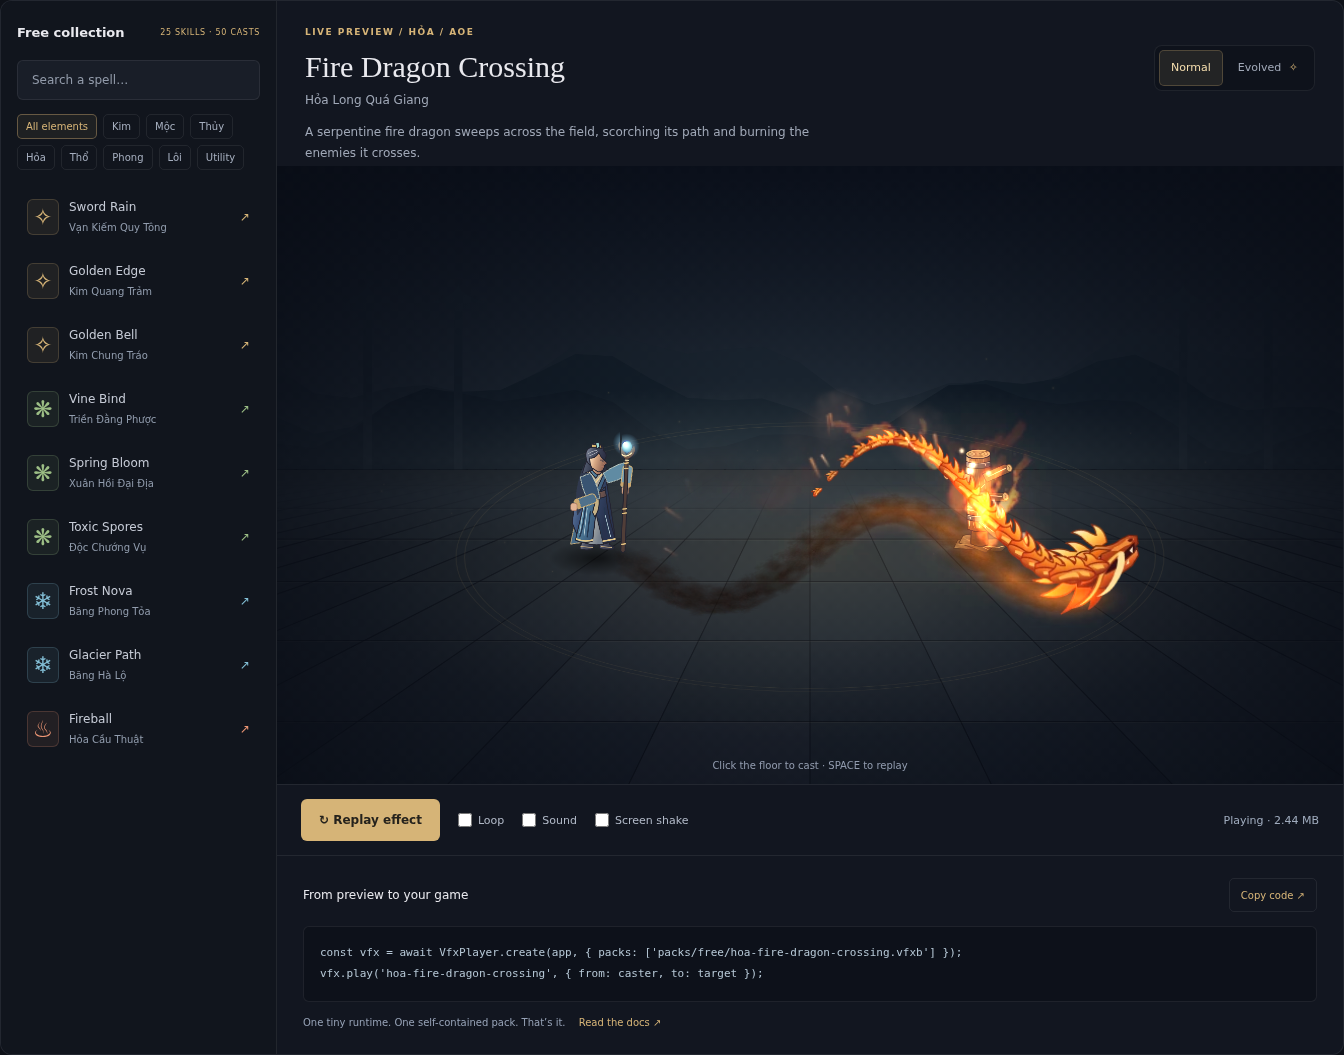
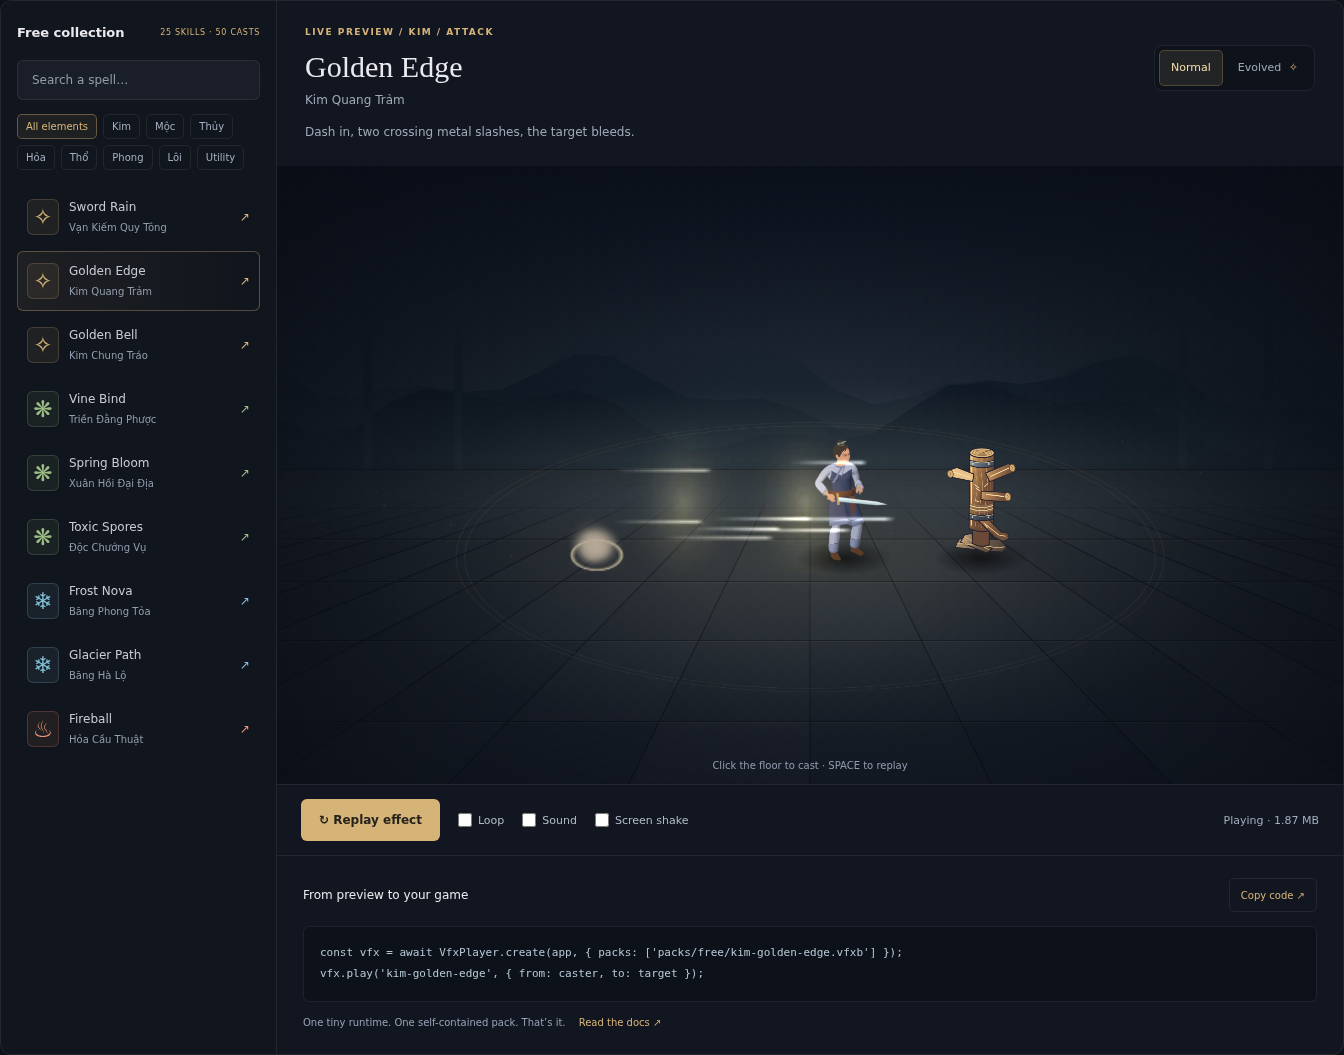
Make the swordsman sheet the showcase caster

diff --git a/showcase/src/main.ts b/showcase/src/main.ts
@@ -1,6 +1,7 @@
 // Copyright (c) 2026 lenhonbp <lenhonbp@gmail.com> — https://github.com/lenhonbp/pixijs-skill-vfx
 // SPDX-License-Identifier: MIT
-import { Application, Container, Texture } from 'pixi.js';
+import { Application, Assets, Container, Texture } from 'pixi.js';
+import type { Spritesheet } from 'pixi.js';
 import { VfxPlayer } from '../../runtime/src/index';
 import type { Playback, CueEvent } from '../../runtime/src/index';
 import './style.css';
@@ -148,7 +149,7 @@ document.querySelector<HTMLDivElement>('#app')!.innerHTML = `
 <div class="workspace"><div class="arena-header"><div><p class="eyebrow" id="category">LIVE PREVIEW / ATTACK</p><h2 id="selected-name">Loading collection…</h2><p id="selected-vi"></p></div><div id="tiers" class="tier-switch" role="group" aria-label="Effect tier"><button data-tier="normal" aria-pressed="true">Normal</button><button data-tier="evolved" aria-pressed="false">Evolved <span>✧</span></button></div><button id="browse" class="browse">Browse skills ↓</button></div><p id="description" class="effect-description"></p><div id="stage" aria-label="Effect preview arena"><div class="arena-label left">CASTER</div><div class="arena-label right">TARGET</div><div class="arena-tip">Click the floor to cast · SPACE to replay</div><span class="axis">2.5D / ISOMETRIC</span></div><div class="controls"><button id="replay" class="primary">↻ Replay effect</button><label><input id="loop" type="checkbox"> Loop</label><label><input id="sound" type="checkbox"> Sound</label><label><input id="shake" type="checkbox" checked> Screen shake</label><span id="status" role="status" aria-live="polite">Loading…</span></div>
 <div class="integration"><div class="section-heading"><h3>From preview to your game</h3><button id="copy">Copy code ↗</button></div><pre><code id="snippet"></code></pre><p>One tiny runtime. One self-contained pack. That’s it. <a href="https://github.com/lenhonbp/pixijs-skill-vfx/blob/main/runtime/README.md">Read the docs ↗</a></p></div></div></section>
 <section id="premium"><div class="premium-heading"><div><p class="eyebrow">THE NEXT CHAPTER</p><h2>More worlds. More wonder.</h2></div><p>Handcrafted collections for your next adventure.<br><span>Premium art. The same free runtime.</span></p></div><div class="premium-grid"><article style="--accent:#d6b477"><span class="pack-symbol">劍</span><p class="eyebrow">01 / MARTIAL LEGENDS</p><h3>Kiếm Hiệp</h3><p>Sword auras, flying blades and the spirit of a wandering hero.</p><div><a href="#gumroad-link-tbd">Gumroad ↗</a><a href="#itch-link-tbd">itch.io ↗</a><span>COMING SOON</span></div></article><article style="--accent:#7dbaa9"><span class="pack-symbol">五</span><p class="eyebrow">02 / FIVE ELEMENTS</p><h3>Ngũ Hành</h3><p>Metal, wood, water, fire and earth. Five forces in perfect motion.</p><div><a href="#gumroad-link-tbd">Gumroad ↗</a><a href="#itch-link-tbd">itch.io ↗</a><span>COMING SOON</span></div></article><article style="--accent:#b69ed4"><span class="pack-symbol">冥</span><p class="eyebrow">03 / FINAL ENCOUNTERS</p><h3>Ultimate Boss</h3><p>Arena-shaking ultimates for battles players will remember.</p><div><a href="#gumroad-link-tbd">Gumroad ↗</a><a href="#itch-link-tbd">itch.io ↗</a><span>COMING SOON</span></div></article></div></section>
-<footer><span>© 2026 lenhonbp &lt;lenhonbp@gmail.com&gt; · <a href="https://opensource.org/license/mit">MIT license</a></span><span>Runtime & free collection · MIT</span></footer></main>`;
+<footer><span>© 2026 lenhonbp &lt;lenhonbp@gmail.com&gt; · <a href="https://opensource.org/license/mit">MIT license</a></span><span>Character artwork (c) 2026 lenhonbp; excluded from the MIT licence.</span></footer></main>`;
 const el = <T extends HTMLElement>(id: string) => document.getElementById(id) as T;
 const app = new Application();
 await app.init({ width: 1000, height: 580, backgroundColor: 0x121620, antialias: true, resolution: Math.min(devicePixelRatio, 2) * el('stage').clientWidth / 1000, autoDensity: true });
@@ -162,6 +163,10 @@ resize.observe(el('stage'));
 const world = new Container(); app.stage.addChild(world);
 const from = { x: 300, y: 365 }, to = { x: 660, y: 365 };
 const scene = createStage(world, from, to, { head: heroTexture('head'), torso: heroTexture('torso'), legs: heroTexture('legs'), staff: heroTexture('staff'), dummy: dummyTexture() });
+try {
+  const sheet = await Assets.load<Spritesheet>(`${base}actors/ngu-hanh-sword/son-ha-kiem-khi-se.json`);
+  scene.setCaster(sheet.animations['son-ha-kiem-khi-se']);
+} catch (error) { console.warn('Character sheet unavailable; using drawn caster.', error); }
 const vfx = await VfxPlayer.create(app, { shake: { target: world }, hitstop: true });
 const response = await fetch(`${base}packs/free/index.json`); if (!response.ok) throw Error('Collection index unavailable');
 const packs: Entry[] = await response.json();
@@ -236,7 +241,10 @@ async function cast() {
     if (!await loadSelected(id) || token !== request) return;
     loading(false);
     const movement = ['kim-golden-edge', 'phong-whirlwind', 'phong-tailwind'].includes(selected.id);
-    scene.prepare(movement ? 'movement' : selected.category === 'attack' || selected.category === 'channel' ? 'projectile' : selected.category);
+    const manifest = vfx.getManifest(id)!;
+    const release = manifest.cues.find(c => c.type === 'sound' && c.id === 'release')?.t
+      ?? manifest.cues.find(c => c.type === 'sound' && ['buff', 'debuff'].includes(c.id ?? ''))?.t ?? 220;
+    scene.prepare(movement ? 'movement' : selected.category === 'attack' || selected.category === 'channel' ? 'projectile' : selected.category, { release, duration: manifest.durationMs });
     current = vfx.play(id, { from, to, parent: world, loop: el<HTMLInputElement>('loop').checked });
     el('status').textContent = 'Playing · ' + sizeLabel();
     await current.finished;
@@ -254,7 +262,7 @@ vfx.on('cue', (cue: CueEvent) => {
   oscillator.frequency.exponentialRampToValueAtTime(55, now + 0.18); gain.gain.setValueAtTime(0.04, now); gain.gain.exponentialRampToValueAtTime(0.001, now + 0.22);
   oscillator.connect(gain).connect(audio.destination); oscillator.start(); oscillator.stop(now + 0.23); oscillator.onended = () => { oscillator.disconnect(); gain.disconnect(); };
 });
-app.ticker.add((ticker: any) => scene.animate(ticker.deltaMS, current?.pose('caster'), current?.pose('target')));
+app.ticker.add((ticker: any) => scene.animate(ticker.deltaMS, current?.pose('caster'), current?.pose('target'), current?.elapsedMs));
 el('tiers').querySelectorAll<HTMLButtonElement>('button').forEach(button => { button.onclick = () => {
   const next = button.dataset.tier === 'evolved';
   if (evolved === next || (next && !selected.evolved)) return;

diff --git a/showcase/src/stage.ts b/showcase/src/stage.ts
@@ -87,7 +87,8 @@ export function createStage(world: Container, from: { x: number; y: number }, to
   figure(art.legs, legs); figure(art.torso, body); figure(art.head, head);
   head.pivot.set(0, -87); head.position.set(0, -87);
   body.pivot.set(0, -55); body.position.set(0, -55);
-  caster.addChild(legs, body); body.addChild(head);
+  const rig = new Container(); caster.addChild(rig);
+  rig.addChild(legs, body); body.addChild(head);
   function arm(x: number, back: boolean) {
     const upper = new Container(), forearm = new Container(), hand = new Container();
     upper.position.set(x, -72); forearm.position.y = 21; hand.position.y = 20;
@@ -127,6 +128,25 @@ export function createStage(world: Container, from: { x: number; y: number }, to
   (Object.keys(velocity) as (keyof typeof idle)[]).forEach(k => { velocity[k] = 0; });
   let clock = 0, castAge = Infinity, releaseAge = Infinity, hitAge = Infinity, color = 0x91c9da, category = 'projectile';
   let casterLift = 0, targetLift = 0;
+  let swordsman: Sprite | undefined, textures: Texture[] = [], clipFrame = 0;
+  let clipRelease = 270, clipEnd = 680;
+  function setCaster(frames: Texture[]) {
+    const anchor = frames[0]?.defaultAnchor;
+    if (frames.length !== 24 || !anchor) throw Error('Invalid swordsman clip');
+    textures = frames;
+    textures[0].source.scaleMode = 'linear';
+    swordsman = new Sprite(textures[0]);
+    swordsman.anchor.copyFrom(anchor);
+    swordsman.scale.set(120 / textures[0].orig.height);
+    caster.addChild(swordsman); rig.visible = false;
+  }
+  function sampleCast(elapsed: number) {
+    const local = elapsed <= clipRelease && clipRelease > 0
+      ? elapsed / clipRelease * 270
+      : 270 + (elapsed - clipRelease) / Math.max(1, clipEnd - clipRelease) * 410;
+    clipFrame = !Number.isFinite(elapsed) || elapsed > clipEnd ? 0 : Math.round(Math.min(1, Math.max(0, local / 680)) * 23);
+    if (swordsman) swordsman.texture = textures[clipFrame];
+  }
   function pointArm(a: ReturnType<typeof arm>, x: number, y: number) {
     const dx = x - a.upper.x, dy = y - a.upper.y, d = Math.max(1, Math.min(40.9, Math.hypot(dx, dy)));
     const shoulder = Math.atan2(dy, dx) - Math.acos(Math.max(-1, Math.min(1, (21 * 21 + d * d - 20 * 20) / (42 * d))));
@@ -143,7 +163,7 @@ export function createStage(world: Container, from: { x: number; y: number }, to
     shadow.alpha = node.alpha * 0.85 / (1 + lift / 100);
     return lift;
   }
-  function animate(ms: number, casterPose?: ActorPose | null, targetPose?: ActorPose | null) {
+  function animate(ms: number, casterPose?: ActorPose | null, targetPose?: ActorPose | null, elapsedMs?: number) {
     const dt = Math.min(ms, 50); clock += dt; castAge += dt; releaseAge += dt; hitAge += dt;
     const t = clock / 1000, windup = releaseAge === Infinity && Number.isFinite(castAge) ? 1 - Math.pow(1 - Math.min(1, castAge / 220), 3) : 0;
     const recoil = Math.exp(-releaseAge / 330), hit = Math.exp(-hitAge / 210), spring = Number.isFinite(hitAge) ? Math.sin(hitAge / 67) * hit : 0;
@@ -158,7 +178,8 @@ export function createStage(world: Container, from: { x: number; y: number }, to
     }
     casterLift = actor(caster, casterShadow, from, casterPose, dt);
     targetLift = actor(dummy, dummyShadow, to, targetPose, dt);
-    caster.y -= Math.sin(t * 2.1) * 1.1;
+    if (!swordsman) caster.y -= Math.sin(t * 2.1) * 1.1;
+    sampleCast(elapsedMs ?? castAge);
     legs.scale.y = 1 - pose.crouch / 140; body.y = -55 + pose.crouch; body.rotation = pose.lean;
     head.rotation = -pose.lean * 0.35 + Math.sin(t * 1.4) * 0.008;
     robe.rotation = Math.sin(t * 1.8) * 0.023; hair.rotation = Math.sin(t * 1.5 + 1) * 0.035;
@@ -187,6 +208,11 @@ export function createStage(world: Container, from: { x: number; y: number }, to
     caster.alpha = dummy.alpha = 1; animate(0);
   }
   animate(0);
-  return { animate, cue, reset, prepare(value: string) { category = value; }, caster, dummy, casterShadow, dummyShadow, body, head, legs, frontArm, backArm, staff, orb, floorFlash,
-    get state() { return { clock, castAge, releaseAge, hitAge, category, casterLift, targetLift }; } };
+  return { animate, cue, reset, setCaster, prepare(value: string, timing?: { release: number; duration: number }) {
+    category = value;
+    clipRelease = timing?.release ?? 270;
+    clipEnd = Math.min(timing?.duration ?? 680, clipRelease + 410);
+  }, caster, dummy, casterShadow, dummyShadow, body, head, legs, frontArm, backArm, staff, orb, floorFlash, rig,
+    get swordsman() { return swordsman; },
+    get state() { return { clock, castAge, releaseAge, hitAge, category, casterLift, targetLift, clipFrame, clipRelease, clipEnd }; } };
 }

diff --git a/runtime/src/index.ts b/runtime/src/index.ts
@@ -14,7 +14,7 @@ export interface PlayerOptions {
   packs?: string[]; loadKey?: string; shake?: { target: Container }; hitstop?: boolean;
 }
 export interface ActorPose { x: number; y: number; lift: number; visible: boolean; facing: number }
-export interface Playback { stop(): void; finished: Promise<void>; pose(name: ActorName): ActorPose | null }
+export interface Playback { stop(): void; finished: Promise<void>; readonly elapsedMs: number; pose(name: ActorName): ActorPose | null }
 export type CueEvent = Cue & { packId: string; handle: Playback };
 interface Pack { manifest: Manifest; sheets: Texture[]; frames: (Texture | null)[][] }
 interface Active {
@@ -108,6 +108,7 @@ export class VfxPlayer {
     let resolve!: () => void;
     const finished = new Promise<void>(done => { resolve = done; });
     const resets = new Set<ActorName>();
+    const player = this;
     const pose = (name: ActorName): ActorPose | null => {
       const track = pack.manifest.actors?.[name];
       if (!track) return null;
@@ -124,13 +125,17 @@ export class VfxPlayer {
       const lerp = (k: number) => f[k] + (next[k] - f[k]) * t;
       return { x: lerp(0) * direction * fit, y: lerp(1), lift: lerp(2), visible: !!(f[3] & 1), facing: (f[3] & 2 ? -1 : 1) * direction };
     };
-    const a: Active = { pack, options, root, sprites, time: 0, cue: 0, freeze: 0, resolve, handle: { finished, pose, stop: () => this.finish(a) } };
+    const a: Active = { pack, options, root, sprites, time: 0, cue: 0, freeze: 0, resolve, handle: { finished, pose, get elapsedMs() { return player.active.has(a) ? a.time : 0; }, stop: () => this.finish(a) } };
     this.active.add(a); this.draw(a); this.emitCues(a);
     return a.handle;
   }
   on(type: 'cue', listener: (event: CueEvent) => void): this { if (type === 'cue') this.listeners.add(listener); return this; }
   off(type: 'cue', listener: (event: CueEvent) => void): this { if (type === 'cue') this.listeners.delete(listener); return this; }
   stats() { return { active: this.active.size, pooled: this.sprites.length, packs: this.packs.size }; }
+  getManifest(id: string): Manifest | undefined {
+    const manifest = this.packs.get(id)?.manifest;
+    return manifest ? structuredClone(manifest) : undefined;
+  }
   private draw(a: Active) {
     const m = a.pack.manifest, o = a.options, to = o.to ?? o.from, anchor = m.anchor === 'target' ? to : o.from;
     const direction = to.x < o.from.x ? -1 : 1;

diff --git a/README.md b/README.md
@@ -1,4 +1,4 @@
-[![Fire Dragon Crossing on the interactive VFX stage](docs/images/showcase-desktop.png)](https://lenhonbp.github.io/pixijs-skill-vfx/)
+[![Swordsman casting on the interactive VFX stage](docs/images/showcase-desktop.png)](https://lenhonbp.github.io/pixijs-skill-vfx/)
 
 # PixiJS Skill VFX
 
@@ -30,13 +30,13 @@ until the npm release is available. Copy the packs you need from
   `<id>.evolved.vfxb` directly.
 - **Actor tracks** — `handle.pose('caster')` / `handle.pose('target')` provide
   interpolated movement, lift, visibility and facing. Dashes and flight move
-  the showcase's articulated caster, with grounded shadows and hit reactions.
+  the showcase's swordsman, with grounded shadows and hit reactions.
 - **Ordered, independently scaled layers** — crisp details and additive glow,
   with per-skill quality presets and selective 60 FPS.
 - **Desktop and mobile packs** — the showcase lazy-loads only the selected
   skill and tier, and releases the previous pack.
 - **Gameplay feedback** — pooling, cue events, optional screen shake and
-  hit-stop. The showcase adds sound hints, looping and category-specific poses.
+  hit-stop. The showcase adds sound hints, looping and a release-synchronized sword cast.
 - **English + Vietnamese** names, searchable collection, shareable tier links,
   and copyable integration snippets.
 
@@ -76,3 +76,4 @@ GitHub Pages deploys the Vite showcase.
 
 © 2026 lenhonbp <lenhonbp@gmail.com> · [MIT license](LICENSE).
 The runtime and showcase are MIT licensed. Keep the copyright and license notice when redistributing runtime code.
+Character artwork (c) 2026 lenhonbp; excluded from the MIT licence.

diff --git a/runtime/README.md b/runtime/README.md
@@ -58,6 +58,11 @@ handles rectangle textures, blend constants and ticker differences internally.
   frame textures are prepared on load, not on play.
 - `update(dtMs)`: explicit deterministic stepping in real milliseconds, useful
   with a stopped application ticker for tests. Do not also auto-tick the same time.
+- `getManifest(id)` returns a detached metadata snapshot, or `undefined` for an
+  unloaded ID. Use its cues and duration to synchronize a character clip without
+  downloading the pack again.
+- `handle.elapsedMs` is the read-only playback clock: it honors speed and hitstop,
+  wraps on loops, and returns zero after stop or completion.
 
 ## Cues, shake and hit-stop
 
